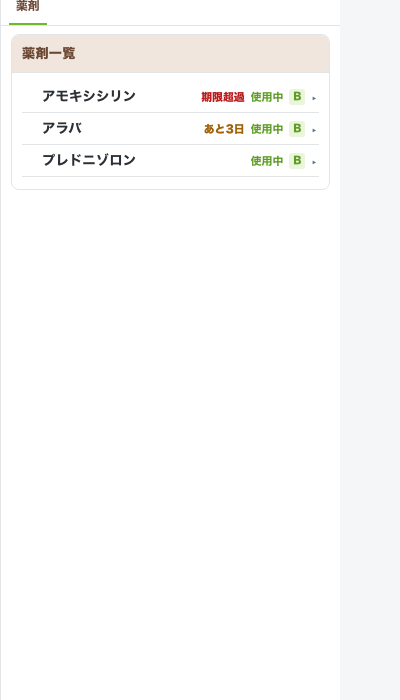
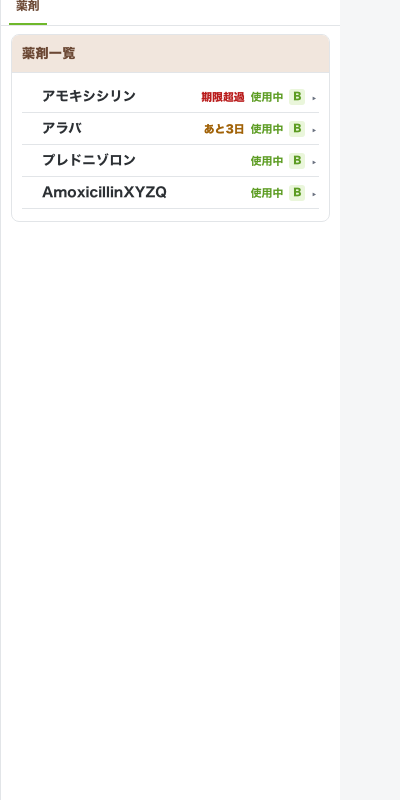
iPad Safariでも薬剤名の赤い波線が出ないよう、表示を生成コンテンツ＋ZWSPに切り替える。

Changed region(s): [[0.03, 0.0, 0.84, 0.27]]

diff --git a/css/style.css b/css/style.css
@@ -2001,16 +2001,42 @@ html.is-unlocked .app {
   text-overflow: ellipsis;
   white-space: nowrap;
   /* ブラウザのスペルチェック赤い下線を出さない（薬剤名は固有名詞のため誤検知されやすい） */
-  text-decoration: none;
-  text-decoration-line: none;
+  text-decoration: none !important;
+  text-decoration-line: none !important;
+  -webkit-text-decoration-line: none !important;
+  text-decoration-color: transparent !important;
+  -webkit-text-decoration-color: transparent !important;
+  text-decoration-thickness: 0 !important;
+  /* iPad Safari でもスペルチェック対象になりにくいよう、表示は生成コンテンツ経由にする */
+  -webkit-user-select: none;
+  user-select: none;
 }
 
-/* Chrome 等が静的テキストにも付けることがあるスペル／文法エラーマーカーを消す */
+/* 実テキストを空にし data-name を表示する（WebKit の波線マーカー回避） */
+.med-card__name::before {
+  content: attr(data-name);
+}
+
+/* Chrome / Safari が付けるスペル／文法エラーマーカーを消す */
 .med-card ::spelling-error,
 .med-card ::grammar-error,
 .meds-list ::spelling-error,
-.meds-list ::grammar-error {
-  text-decoration-line: none;
+.meds-list ::grammar-error,
+.med-card__name::spelling-error,
+.med-card__name::grammar-error {
+  color: inherit;
+  background: transparent;
+  text-decoration: none !important;
+  text-decoration-line: none !important;
+  -webkit-text-decoration-line: none !important;
+  text-decoration-color: transparent !important;
+  -webkit-text-decoration-color: transparent !important;
+}
+
+/* 詳細内の input には付けない（編集不能になるため） */
+.med-card__header,
+.med-card__name {
+  -webkit-user-modify: read-only;
 }
 
 .med-card__chevron {
@@ -2522,7 +2548,9 @@ select.input {
 
 .med-card.swipeable .swipeable__front,
 .hist-card.swipeable .swipeable__front {
+  /* 背面の削除アクション（赤み）が透けて下線のように見えないよう不透明にする */
   background: var(--color-white);
+  background-color: var(--color-white);
 }
 
 .tpl-list-item.swipeable .swipeable__front {

diff --git a/js/meds-ui.js b/js/meds-ui.js
@@ -345,6 +345,7 @@ function createDrugCard(drug) {
   header.className = "med-card__header";
   header.setAttribute("role", "button");
   header.tabIndex = 0;
+  header.spellcheck = false;
   header.setAttribute("aria-expanded", String(expanded));
 
   const signs = document.createElement("span");
@@ -357,10 +358,15 @@ function createDrugCard(drug) {
     signs.appendChild(recentSign);
   }
 
+  const displayName = drug.name || "（名称未設定）";
   const nameEl = document.createElement("span");
   nameEl.className = "med-card__name";
   nameEl.spellcheck = false;
-  nameEl.textContent = drug.name || "（名称未設定）";
+  // iPad Safari は spellcheck=false でも固有名詞に赤い波線を付けることがある。
+  // 1) 実テキストは空  2) 表示は ::before(attr)  3) 文字間 ZWSP で単語判定を崩す
+  nameEl.dataset.name = Array.from(displayName).join("\u200B");
+  nameEl.setAttribute("aria-label", displayName);
+  nameEl.textContent = "";
 
   const statusEl = document.createElement("span");
   statusEl.className = `med-status med-status--${status.id}`;

diff --git a/index.html b/index.html
@@ -385,7 +385,7 @@
         <section class="exam-section">
           <h3 class="exam-section__title">薬剤一覧</h3>
           <p class="field__note" id="meds-empty">登録された薬剤はありません。</p>
-          <ul class="meds-list" id="meds-list" spellcheck="false"></ul>
+          <ul class="meds-list" id="meds-list" spellcheck="false" lang="ja"></ul>
         </section>
       </div>
 

diff --git a/service-worker.js b/service-worker.js
@@ -8,7 +8,7 @@
 //
 // ※ CACHE_VERSION を上げるときは js/app-version.js の APP_VERSION / CACHE_LABEL も合わせて更新する。
 
-const CACHE_VERSION = "v93";
+const CACHE_VERSION = "v95";
 const CACHE_NAME = `nyuta-karte-log-${CACHE_VERSION}`;
 
 const APP_SHELL_FILES = [

diff --git a/js/app-version.js b/js/app-version.js
@@ -1,3 +1,3 @@
 // アプリの表示用バージョン。Service Worker の CACHE_VERSION と合わせて更新する。
-export const APP_VERSION = "1.9.50";
-export const CACHE_LABEL = "v93";
+export const APP_VERSION = "1.9.52";
+export const CACHE_LABEL = "v95";
